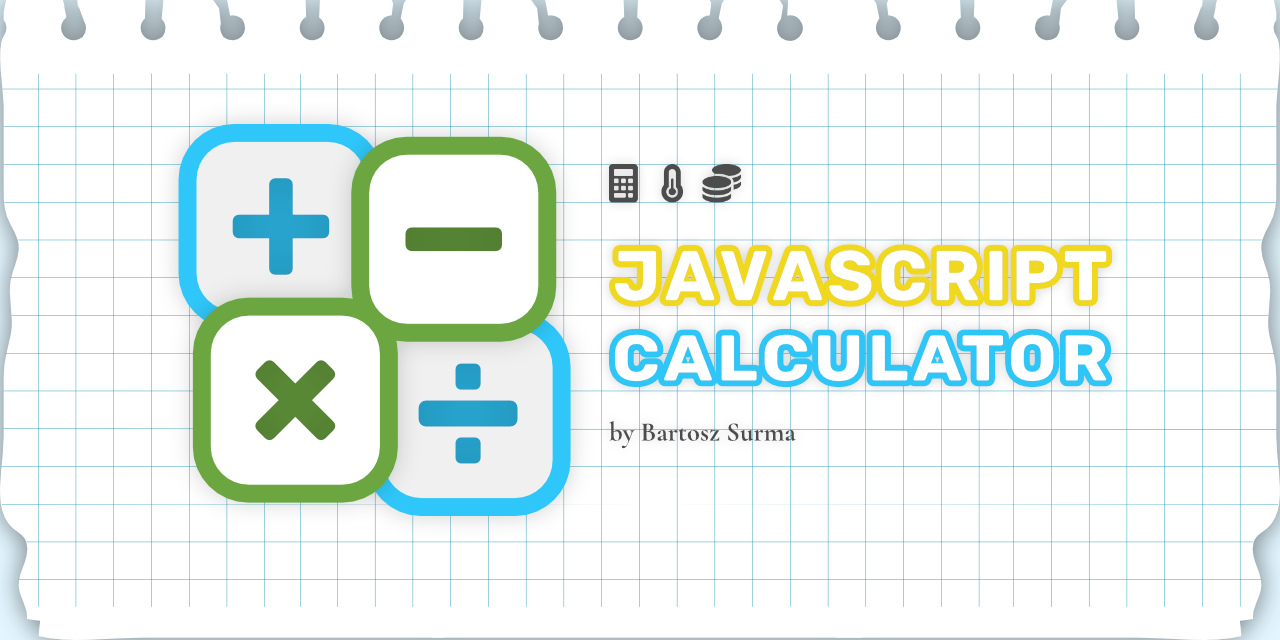
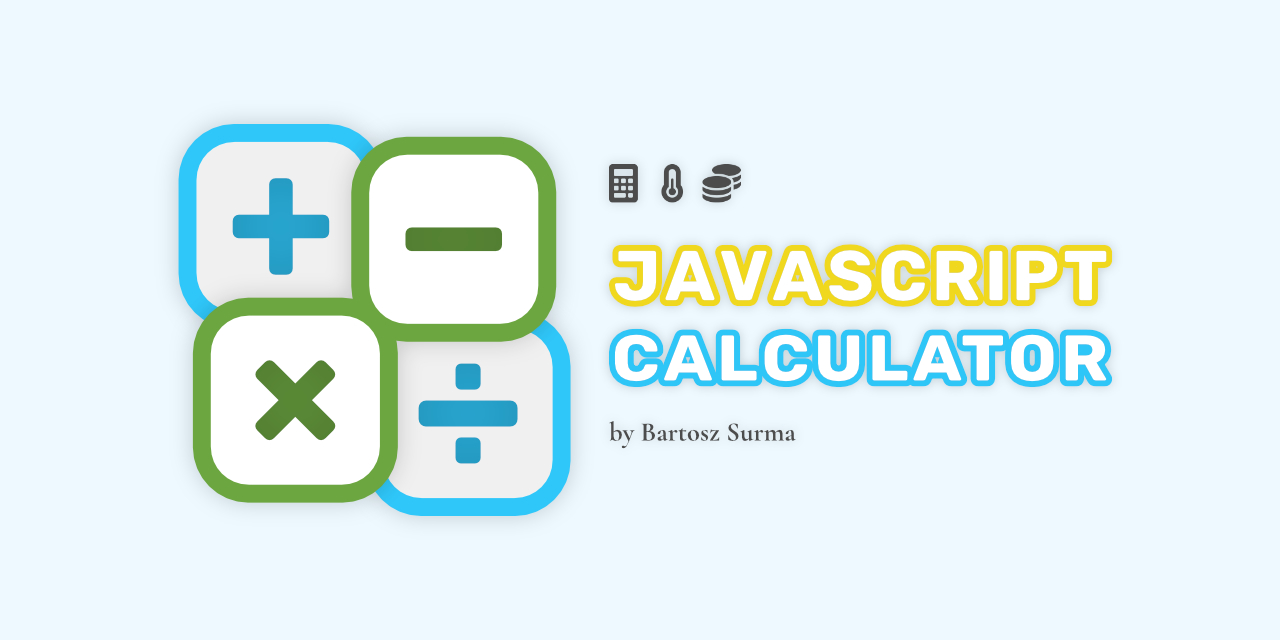
deleted:    fullpage/fullpage.min.css 	deleted:    fullpage/fullpage.min.js 	new file:   img/programs/hangman.jpg 	modified:   img/programs/js-calculator.jpg 	modified:   index.html 	modified:   style.css

diff --git a/index.html b/index.html
@@ -27,7 +27,7 @@
                 <button  class="navbar-toggle my-btn" data-toggle="collapse" data-target="#myNavbar">
                     <i class="fa-solid fa-caret-down"></i>
                 </button>
-                <a class="navbar-brand" href="#home">Bartosz Surma</a>
+                <a class="navbar-brand" href="#">Bartosz Surma</a>
               </div>
               <div class="collapse navbar-collapse" id="myNavbar">
                 <ul class="nav navbar-nav navbar-right">
@@ -51,7 +51,7 @@
         </div>
     </div> -->
     <!-- Home -->
-    <div id="home" class="container section">
+    <div class="container section home">
         <div class="row">
             <div class="col-sm-6 welcome-div">
                 <i class="fa-solid fa-angles-right"></i>
@@ -71,13 +71,18 @@
     </div>
     <!-- ABOUT-->
     <div id="about-me" class="container section">
-        <h1><i class="fa-solid fa-user-large"></i></i>who am I?</h1>
+        <h1>
+            <i class="fa-solid fa-user-large"></i></i>who am I?
+            <!-- <svg width="20vh" height="20vh" class="circle-h1">
+                <circle r="50%" fill="#f1c40f"></circle>
+            </svg> -->
+        </h1>
         <div class="row  text-justify">
             <div class="col-lg-12 content">
                 <p>My name is <strong>Bartosz</strong> <i>(also called Bartek)</i> and I am <span class="age"></span> years old. My life started in <strong>Grudziądz</strong> - a city in notrhern Poland, but currently, due to my studies, I live in <strong>Warsaw</strong> - the capitol of Poland.</p>
                 <p>I have loved using computer, since I remeber. The way it works always amazed me. At first I started playing Computer Games and spent many hours mostly playing <strong>Battlefiled 3</strong>, <strong>Counter-Strike</strong> and <strong>Minecraft</strong>. Thanks to the Minecraft I have developed my graphic-design skills, because I usually improved <i>texturepacks</i>, that I downloaded from the Net.</p>
-                <p>When I was at High School I learned programming basics in <strong>C++</strong>. But when I graduated, I decided to go on Theology Studies and I <i>burried</i> all my IT knowledge.</p>
-                <p>Besides all the <i>IT stuff</i> I love music. I play on the <strong>guitar</strong>, <strong>ukulele</strong> and currenty I am learning playing <strong>piano</strong>. Musisc is important thing in my life. It motivates me to work, keeps me focus, but most importantly - <strong>it entertains me</strong>.</p>
+                <p>When I was at High School I was learning some basics of <strong>C++</strong> programming language. But when I graduated High School, I decided to go on Theology Studies and put aside all my IT intrests. After 3 years of studing Theology I decided to change my life plans and start studing Information Technology in Warsaw. Back then I was wondering if it would be better to become graphic designer or programmer in the future. Now I know that I want to be a programist and having graphic designing as an hobby.</p>
+                <p>Besides all the <i>IT stuff</i> I love music. I play on the <strong>guitar</strong>, <strong>ukulele</strong> and currenty I am learning playing <strong>piano</strong>, but also I listen the music a lot. It is important thing in my life. It motivates me to work, it keeps me focus, but most importantly - <strong>it entertains me</strong>.</p>
             </div>
         </div>
     </div>
@@ -88,7 +93,12 @@
     </div>
     <!-- EDUCATION -->
     <div id="education" class="container section">
-        <h1><i class="fa-solid fa-graduation-cap"></i>what do I know?</h1>
+        <h1>
+            <i class="fa-solid fa-graduation-cap"></i>what do I know?
+            <!-- <svg width="20vh" height="20vh" class="circle-h1">
+                <circle r="50%" fill="#f1c40f"></circle>
+            </svg> -->
+        </h1>
         <!-- TIMELINE -->
         <div class="timeline">
             <div class="timeline-event left">
@@ -173,7 +183,12 @@
     </div>
     <!-- PORTFOLIO -->
     <div id="portfolio" class="container text-center section">
-        <h1><i class="fa-solid fa-folder"></i>what do I make?</h1>
+        <h1>
+            <i class="fa-solid fa-folder"></i>what do I make?
+            <!-- <svg width="20vh" height="20vh" class="circle-h1">
+                <circle r="50%" fill="#f1c40f"></circle>
+            </svg> -->
+        </h1>
         <div class="row">
             <h4><i class="fa-solid fa-palette"></i>I design graphics<i class="fa-solid fa-palette"></i></h4>
             <p class="description"><i>Graphic designing</i> become one of my hobbies. I am not a profesional graphic designer, but I enjoy doing it. My friends, for whom I make those graphics, say that they like my designs, so I am always eager to make posters. Here you can see some of my works.</p>
@@ -235,7 +250,13 @@
                         <a class="link" href="https://github.com/amrusb/JS-Calculator" target="_blank">code<i class="fa-solid fa-hand-pointer fa-beat" ></i></a>
                     </div>
                 </div>
-
+                <div class="program-box">
+                    <div class="img-box"><img src="/img/programs/hangman.jpg"></div>
+                    <div class="text-box">
+                        <p>Lorem ipsum dolor sit amet consectetur adipisicing elit. Culpa quo odio ad modi, doloribus, quae a labore omnis eveniet officiis quas eos! Dolores quibusdam voluptates sed error molestias, reprehenderit nulla.</p>
+                        <a class="link" href="https://github.com/amrusb/hangman" target="_blank">code<i class="fa-solid fa-hand-pointer fa-beat" ></i></a>
+                    </div>
+                </div>
             </div>   
         </div>
     </div>
@@ -246,7 +267,12 @@
     </div>
     <!-- CONTACT -->
     <div id="contact" class="container text-center section">
-        <h1><i class="fa-solid fa-comment"></i>how to reach me?</h1>
+        <h1>
+            <i class="fa-solid fa-comment"></i>how to reach me?
+            <!-- <svg width="20vh" height="20vh" class="circle-h1">
+                <circle r="50%" fill="#f1c40f"></circle>
+            </svg> -->
+        </h1>
         <div class="row">
             <div class="col-md-4 content">
                 <a href="mailto:bartosz.surma@outlook.com">

diff --git a/style.css b/style.css
@@ -172,17 +172,28 @@ h1{
     text-align: left;
     color:rgb(12, 15, 15) !important;
     padding: 5px;
-    /* padding-left: 20px; */
     margin-bottom: 30px !important;
-    /* border-left: 10px solid #94C6F2; */
+    /* border: 1px solid black; */
 }
 
 h1 i{
     color: #94C6F2 !important;
+    /* color:hsl(0, 0%, 95%)!important;; */
     font-size: 25pt !important;
     margin-right: 20px;
 }
-
+.circle-h1{
+    position: relative;
+    left: -10%;
+    bottom: -40%;
+    /* top: 58%; */
+    transform: translate(0%, 43%);
+    z-index: -7;
+    border: 1px solid black;
+}
+.circle-h1 circle{
+    transform: translate(50%, 50%);
+}
 h3 {
     padding: 20px !important;
 }
@@ -191,6 +202,7 @@ h3 {
     width: 100%;
     box-shadow: 0px 0px 10px #01032642;
 }
+
 .circle{
     position: absolute;
     top: 4%;
@@ -483,7 +495,7 @@ li:hover .visual-studio-code{
     overflow: hidden;
     transition: .5s;
     margin: 0 0.5%;
-    box-shadow: 0 0px 30px rgba(0,0,0,.1);
+    box-shadow: 0px 0px 15px rgba(0,0,0,.1);
     line-height: 0;
     cursor: pointer;
 }
@@ -533,18 +545,21 @@ li:hover .visual-studio-code{
 .programs{
     display: flex;
     flex-wrap: wrap;
-    justify-content:center;
-    align-items:flex-start;
+    justify-content:left;
+    align-items:baseline;
+}
+.programs:last-child{
+    justify-content:left;
 }
 .img-box{
     width: 100%;
     overflow: hidden;
 }
 .program-box{
-    width: 49%!important;
-    margin: 5px;
+    width: 48%!important;
+    margin: 10px;
     background-color: #F2F2F2;
-    box-shadow: 0px 0px 30px rgba(0,0,0,.1);
+    box-shadow: 0px 0px 10px rgba(0,0,0,.1);
 }
 
 .program-box img{
@@ -553,6 +568,7 @@ li:hover .visual-studio-code{
     cursor: pointer;
     transition: 0.9!important;
     filter:opacity(60%) grayscale(60%);
+    transition: .7s;
 }
 .program-box img:hover{
     transform: scale(1.15);
